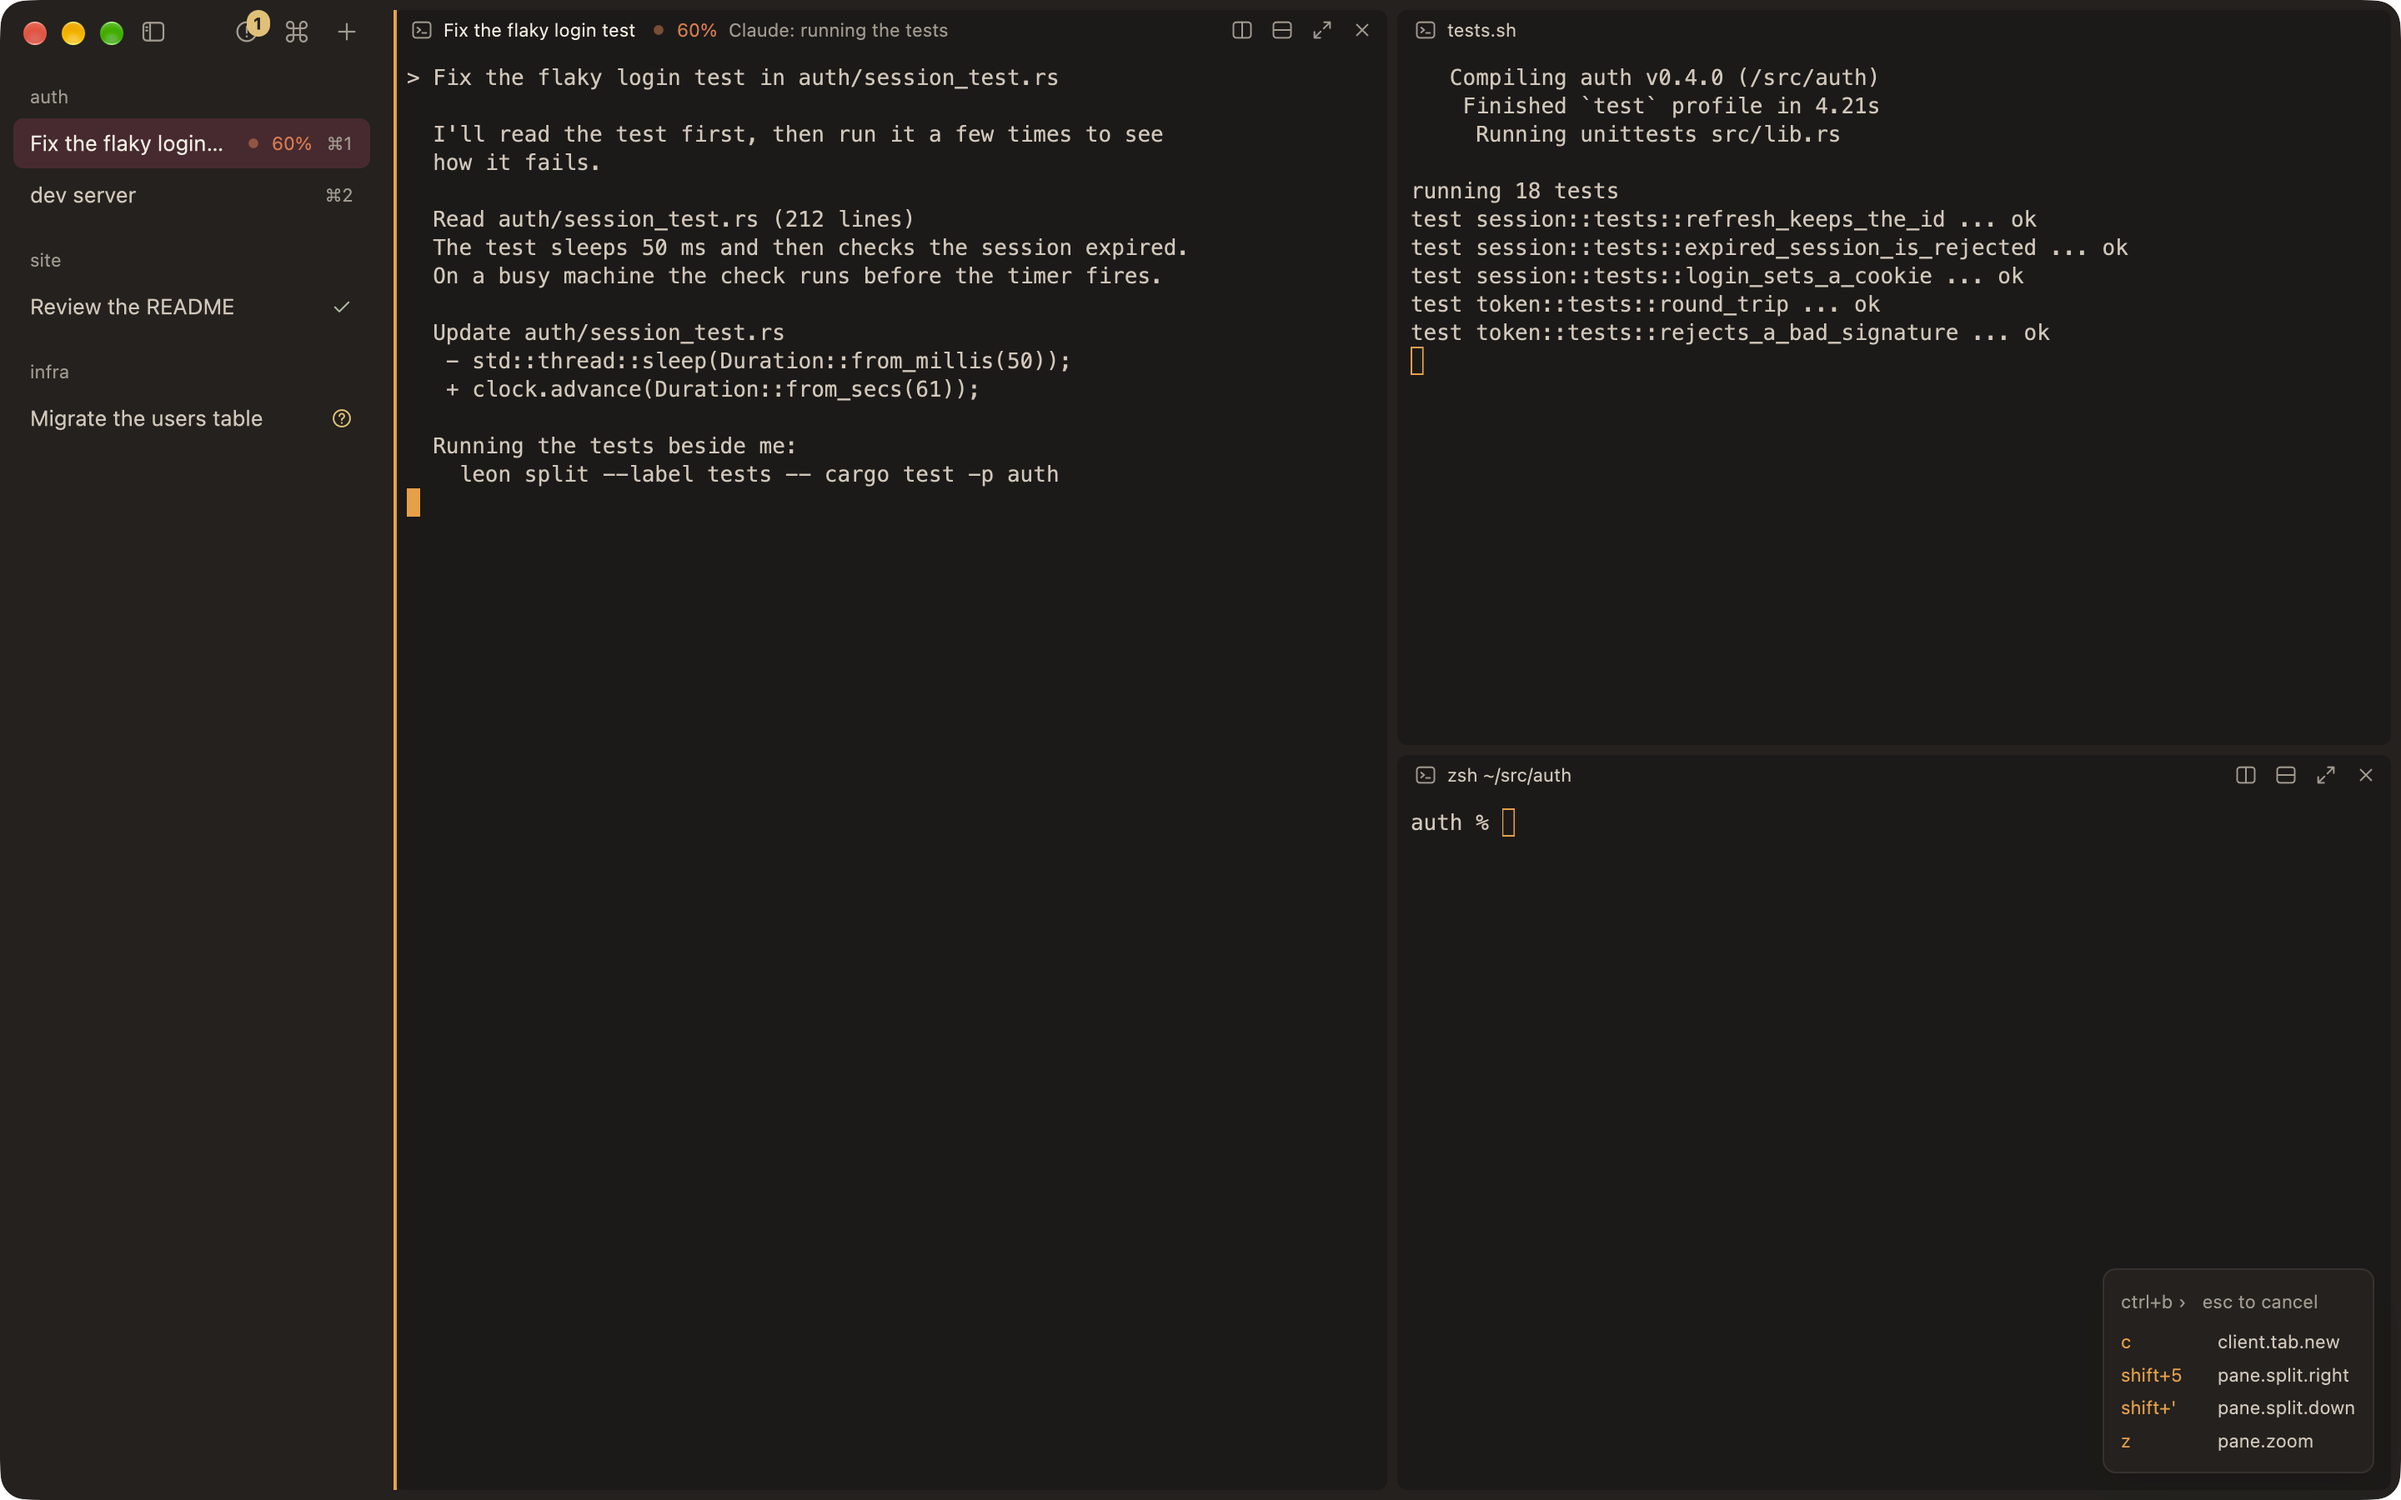
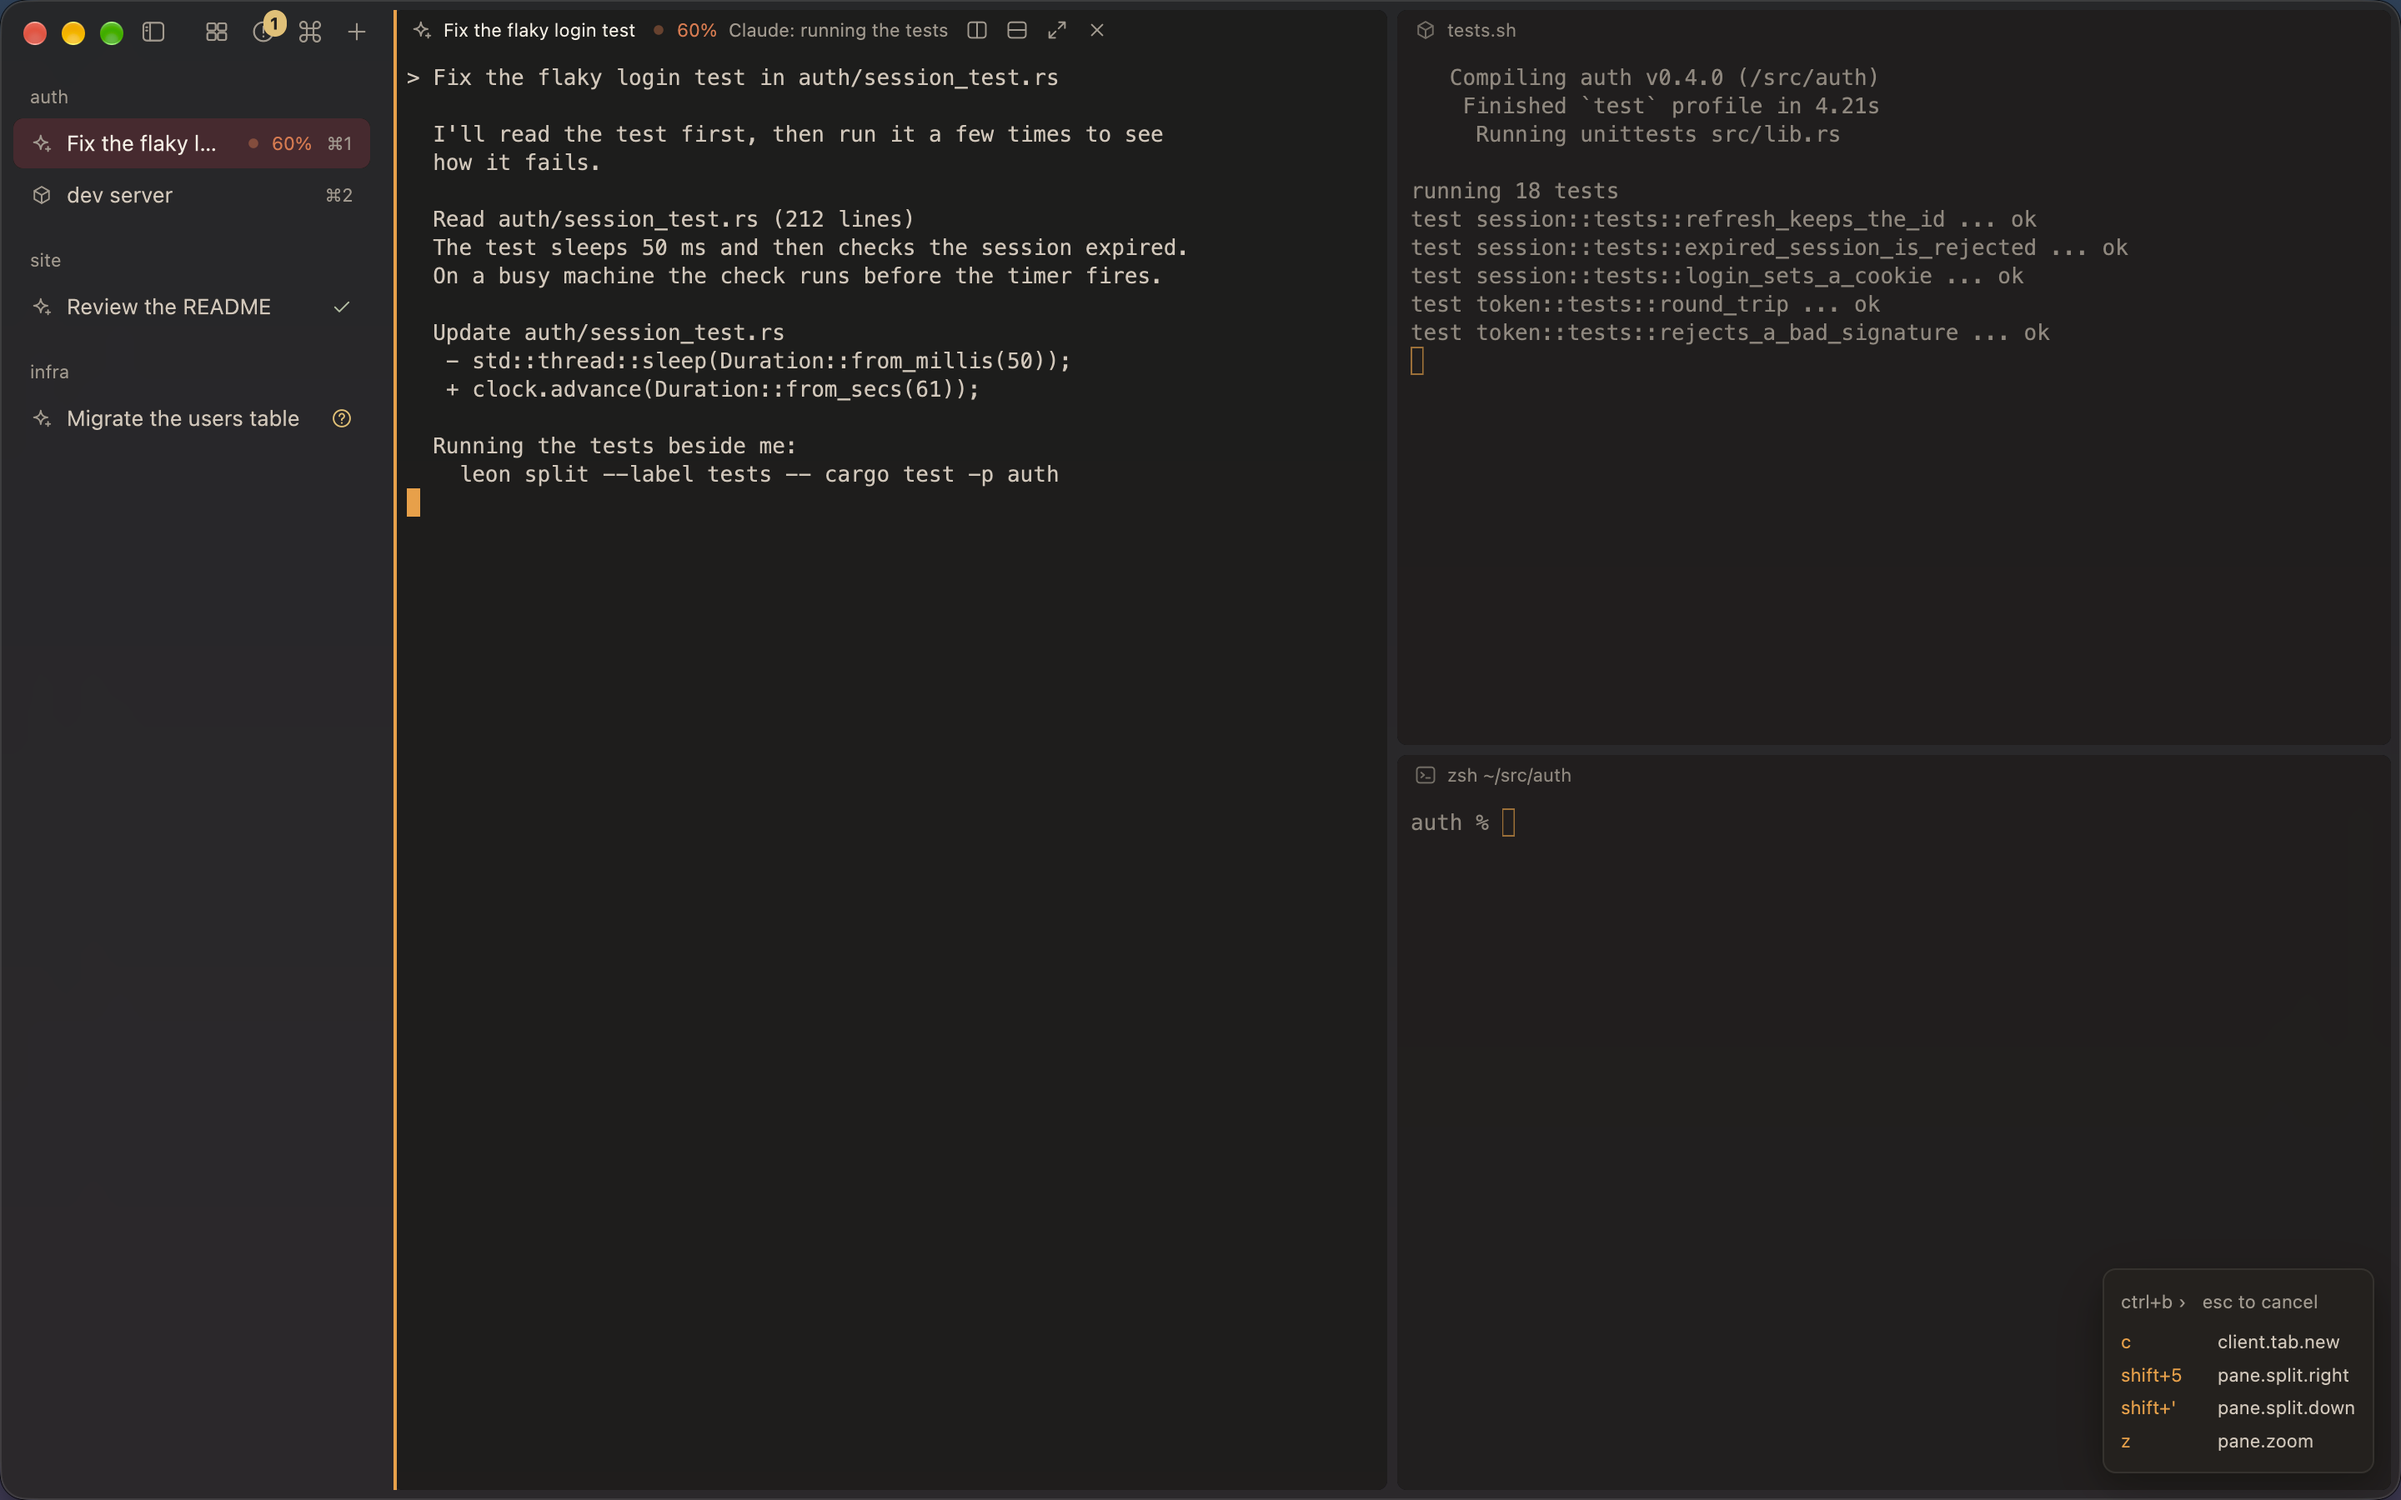
docs: every still retaken in the new look, six new pictures
Retaken with scripts/demo-shots.sh at the same names: the status, activity,
float, drawer and remote-host pictures the README and docs show, and the
rest of docs/images. New, each beside the text that describes it: the
translucent window and the program icons (README), the overview
(shortcuts.md), Change Theme… (cli/settings.md), Settings › Appearance
(lua/settings.md) and Add Host… listing a tailnet (remote-hosts.md).

diff --git a/README.md b/README.md
@@ -195,6 +195,13 @@ strength. `leon.set("fade_inactive_panes", N)` sets it from 0 (off) to 0.8 (defa
 The window is translucent, tinted by the theme, with text readable over any desktop;
 `leon.set("translucency", 0)` makes it opaque.
 
+![The leon window over a plain blue-to-violet desktop, which shows through its sidebar and title bar](docs/images/app-translucent.png)
+
+Each tab, sidebar row and pane header has an icon for the program in it: an agent, an editor,
+tests, a server, a monitor, ssh or a shell.
+
+![Tabs in the title bar, each with its program's icon: a shell, an agent, an editor, tests, a server, a monitor and ssh](docs/images/app-icons.png)
+
 ⌘K switches to any session, tab or block on any host, the most recent first, and ⌘⇧A lists what
 needs you: blocked first (with what it is waiting for), then errors, finished runs you haven't
 looked at, and work in progress. The toolbar button for it shows how many blocks are blocked, and so

diff --git a/docs/shortcuts.md b/docs/shortcuts.md
@@ -35,6 +35,8 @@ Leon.app's keys, from the [README](../README.md#app-shortcuts). [lua/keys.md](lu
 | ⌘=, ⌘⇧=, ⌘-, ⌘0 | Bigger, bigger, smaller, default font size (shown panes) |
 | ⌘Q | Quit; every program keeps running (leon › Quit and End All Sessions… ends them) |
 
+![The overview (⌘⇧\\): every tab on every session as a live tile, with its status](images/app-overview.png)
+
 These are defaults. A `leon.bind` in your `init.lua` replaces one key by key, and `leon.unbind`
 removes one (⌘Q stays). Key sequences such as `ctrl+b>c` show a hint of what can follow. Every
 button names its action and shortcut on hover. The wheel scrolls a pane back through its

diff --git a/docs/lua/settings.md b/docs/lua/settings.md
@@ -20,6 +20,8 @@ does, with each one's state, and adds, renames and removes them. Server shows Th
 (how long it has run, its sessions, blocks and log) and stops or restarts it; each asks first,
 since every program in every session ends.
 
+![The Settings window on Appearance: theme, translucency, the fade of other panes and the font](../images/app-settings.png)
+
 | Setting | Takes | Default |
 |---|---|---|
 | `theme` | a theme name, or `{ dark = NAME, light = NAME }` to follow the OS appearance | `"leon-dark"` |

diff --git a/docs/cli/settings.md b/docs/cli/settings.md
@@ -77,6 +77,8 @@ names one theme for both appearances, the new one is set for both; when it names
 side macOS is on now changes (the list's field says which). A theme change fades in over a moment,
 or switches at once with Reduce Motion.
 
+![Change Theme… with another theme selected, drawing the whole window as a preview](../images/app-theme.png)
+
 ### `leon theme`
 
 List, import and show themes. Needs no server.

diff --git a/docs/remote-hosts.md b/docs/remote-hosts.md
@@ -22,3 +22,5 @@ screens under a "reconnecting" note.
 ![A pane on the devbox, focused, with the host's name in its header](images/m16b-remote-pane.png)
 
 ![A host that can't be reached, with ssh's reason under its label](images/m16b-unreachable.png)
+
+![Add Host… listing the machines on a tailnet, each with its system and whether it is online](images/app-tailnet.png)
